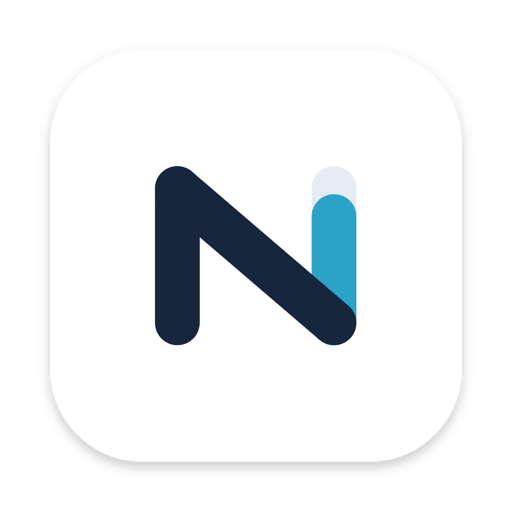
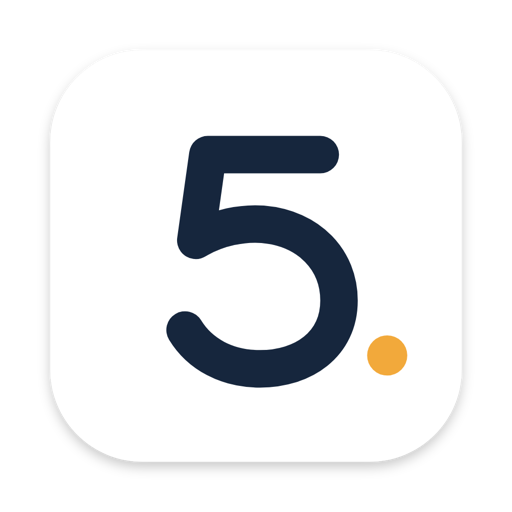
Cambiar nombre e icono de la app a Cinc

Changed region(s): [[0.2812, 0.25, 0.7188, 0.7812], [0.7188, 0.6562, 0.8125, 0.75]]

diff --git a/index.html b/index.html
@@ -3,8 +3,8 @@
 <head>
   <meta charset="UTF-8">
   <meta name="viewport" content="width=device-width, initial-scale=1">
-  <title>Notas DAW1</title>
-  <meta name="description" content="Mis notas de 1.º de DAW por módulo">
+  <title>Cinc</title>
+  <meta name="description" content="Cinc: mis notas de 1.º de DAW por módulo">
 
   <!-- PWA -->
   <link rel="manifest" href="manifest.webmanifest">
@@ -13,7 +13,7 @@
   <link rel="icon" href="icons/favicon.svg" type="image/svg+xml">
   <link rel="icon" href="icons/favicon-32.png" sizes="32x32" type="image/png">
   <link rel="apple-touch-icon" href="icons/apple-touch-icon.png">
-  <meta name="apple-mobile-web-app-title" content="Notas DAW1">
+  <meta name="apple-mobile-web-app-title" content="Cinc">
 
   <link rel="stylesheet" href="styles.css">
 </head>
@@ -22,7 +22,7 @@
     <header class="cabecera">
       <img class="logo" src="icons/favicon.svg" alt="" width="48" height="48">
       <div>
-        <h1>Notas DAW1</h1>
+        <h1>Cinc<span class="punto">.</span></h1>
         <p id="resumen" class="resumen">Cargando notas…</p>
       </div>
     </header>

diff --git a/styles.css b/styles.css
@@ -5,7 +5,8 @@
   --texto: #16263D;
   --texto-suave: #5B6878;
   --borde: #E1E7EE;
-  --acento: #2BA3C9;
+  --acento: #16263D;   /* azul noche del logo */
+  --punto: #F2A93B;    /* el punto naranja del logo */
   --pista: #E6ECF2;
   --esqueleto: #E9EEF3;
 
@@ -28,6 +29,7 @@
     --borde: #263345;
     --pista: #2A3748;
     --esqueleto: #223042;
+    --acento: #E8EEF5;
 
     --verde: #4CC27E;
     --ambar: #E3A948;
@@ -69,12 +71,17 @@ body {
   flex-shrink: 0;
 }
 
+/* Igual que el logo: sans gruesa con las letras juntas */
 h1 {
-  font-family: var(--serifa);
-  font-size: 2rem;
+  font-family: "Inter Display", Inter, var(--sans);
+  font-weight: 700;
+  font-size: 2.2rem;
+  letter-spacing: -0.03em;
   line-height: 1.1;
   margin: 0 0 4px;
 }
+
+h1 .punto { color: var(--punto); }
 
 .resumen {
   margin: 0;

diff --git a/sw.js b/sw.js
@@ -1,8 +1,8 @@
-// Service worker sencillo: guarda los archivos de la página para que
+// Service worker de Cinc: guarda los archivos de la página para que
 // abra aunque no haya conexión. Los datos de la hoja NO se guardan aquí
 // (las peticiones a Google pasan de largo).
 
-const CACHE = 'notas-daw1-v1';
+const CACHE = 'cinc-v2';
 
 const ARCHIVOS = [
   './',

diff --git a/app.js b/app.js
@@ -1,5 +1,5 @@
 // ============================================================
-//  Notas DAW1 — lee la hoja de Google y calcula las medias
+//  Cinc — lee la hoja de Google y calcula las medias
 // ============================================================
 
 // URL de la aplicación web de Apps Script (README, paso 1).

diff --git a/README.md b/README.md
@@ -1,6 +1,6 @@
-# Notas DAW1
+# Cinc
 
-App web (PWA) para consultar mis notas de 1.º de DAW. Solo lectura: las notas se escriben en la hoja de Google `notas_DAW1` y la app las lee a través de un Apps Script.
+Cinc es una app web (PWA) para consultar mis notas de 1.º de DAW. Solo lectura: las notas se escriben en la hoja de Google `notas_DAW1` y la app las lee a través de un Apps Script.
 
 ## Archivos
 
@@ -90,4 +90,4 @@ Los repartos están en la lista `MODULOS` al principio de `app.js`.
 
 ## Cuando cambies la app
 
-Si modificas `index.html`, `styles.css` o `app.js`, sube el número de `CACHE` en `sw.js` (`notas-daw1-v1` → `v2`) para que los móviles con la app instalada descarguen la versión nueva.
+Si modificas `index.html`, `styles.css` o `app.js`, sube el número de `CACHE` en `sw.js` (`cinc-v2` → `cinc-v3`) para que los móviles con la app instalada descarguen la versión nueva.
